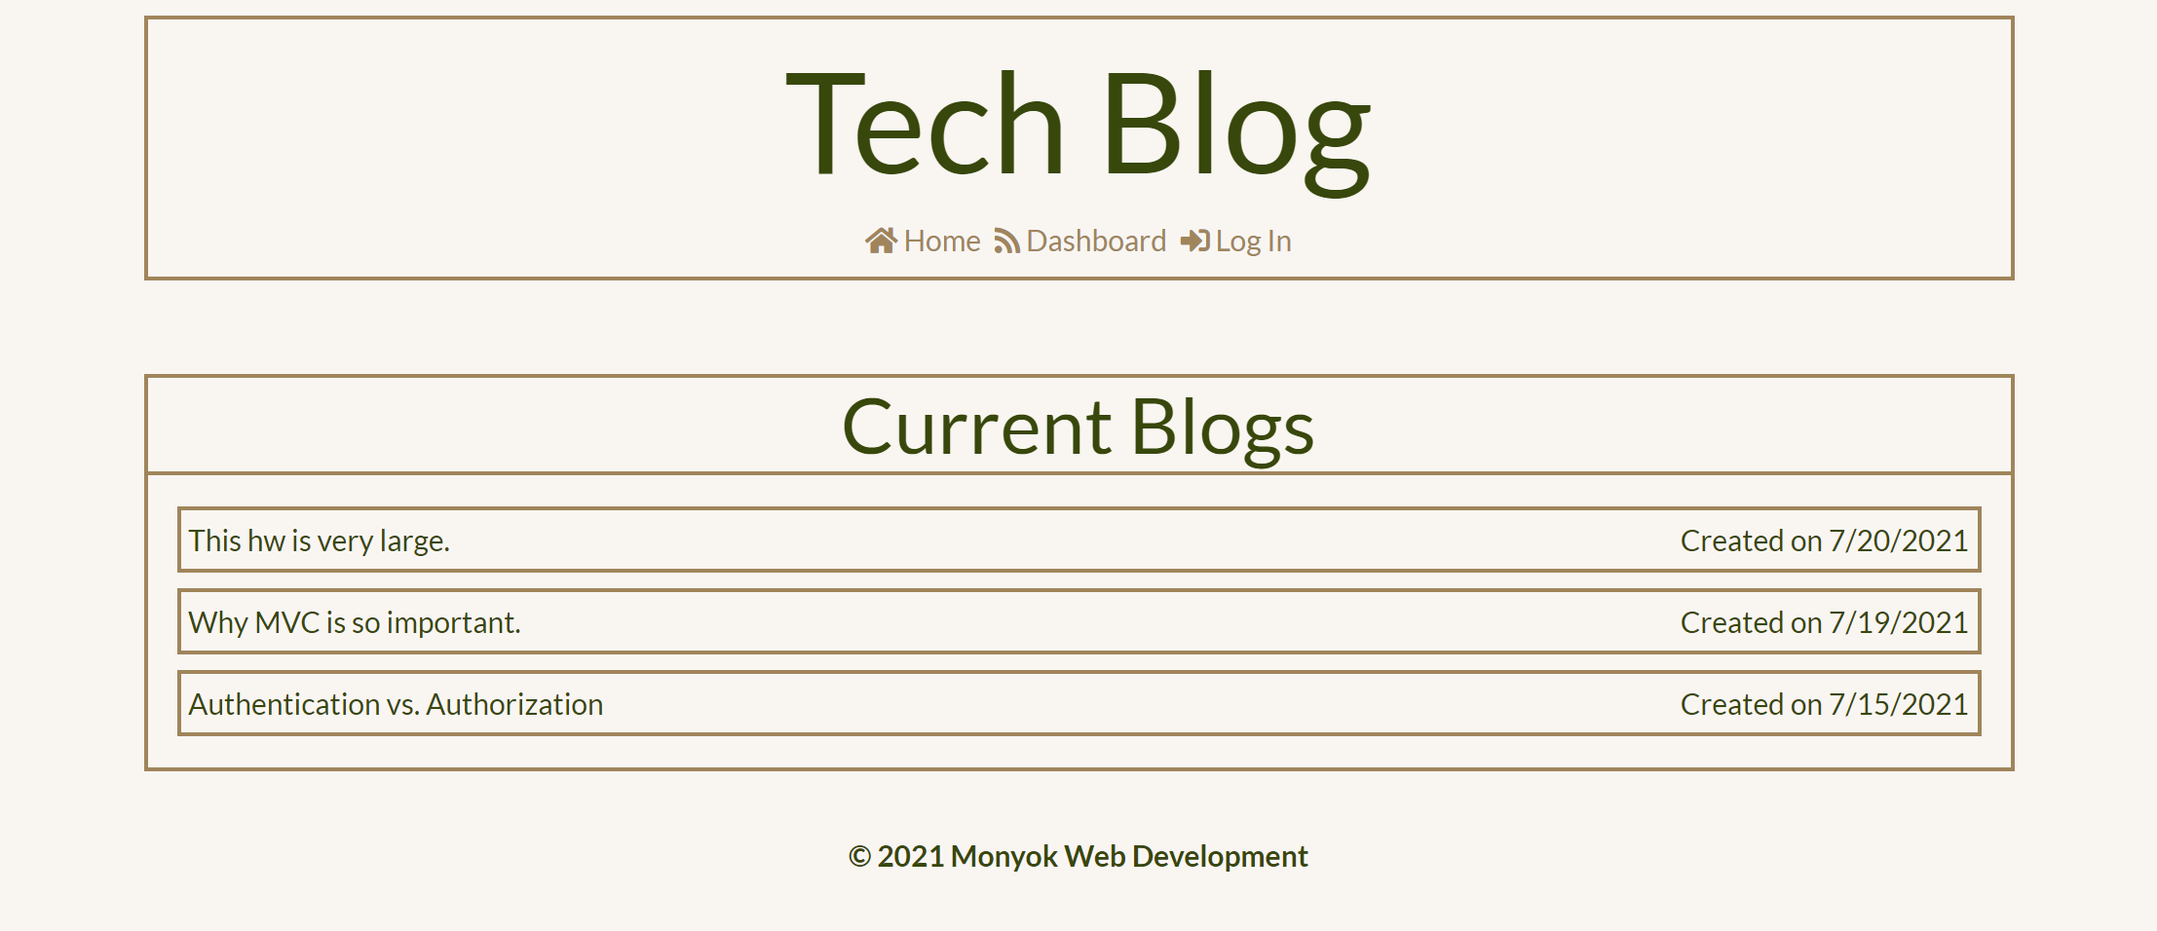
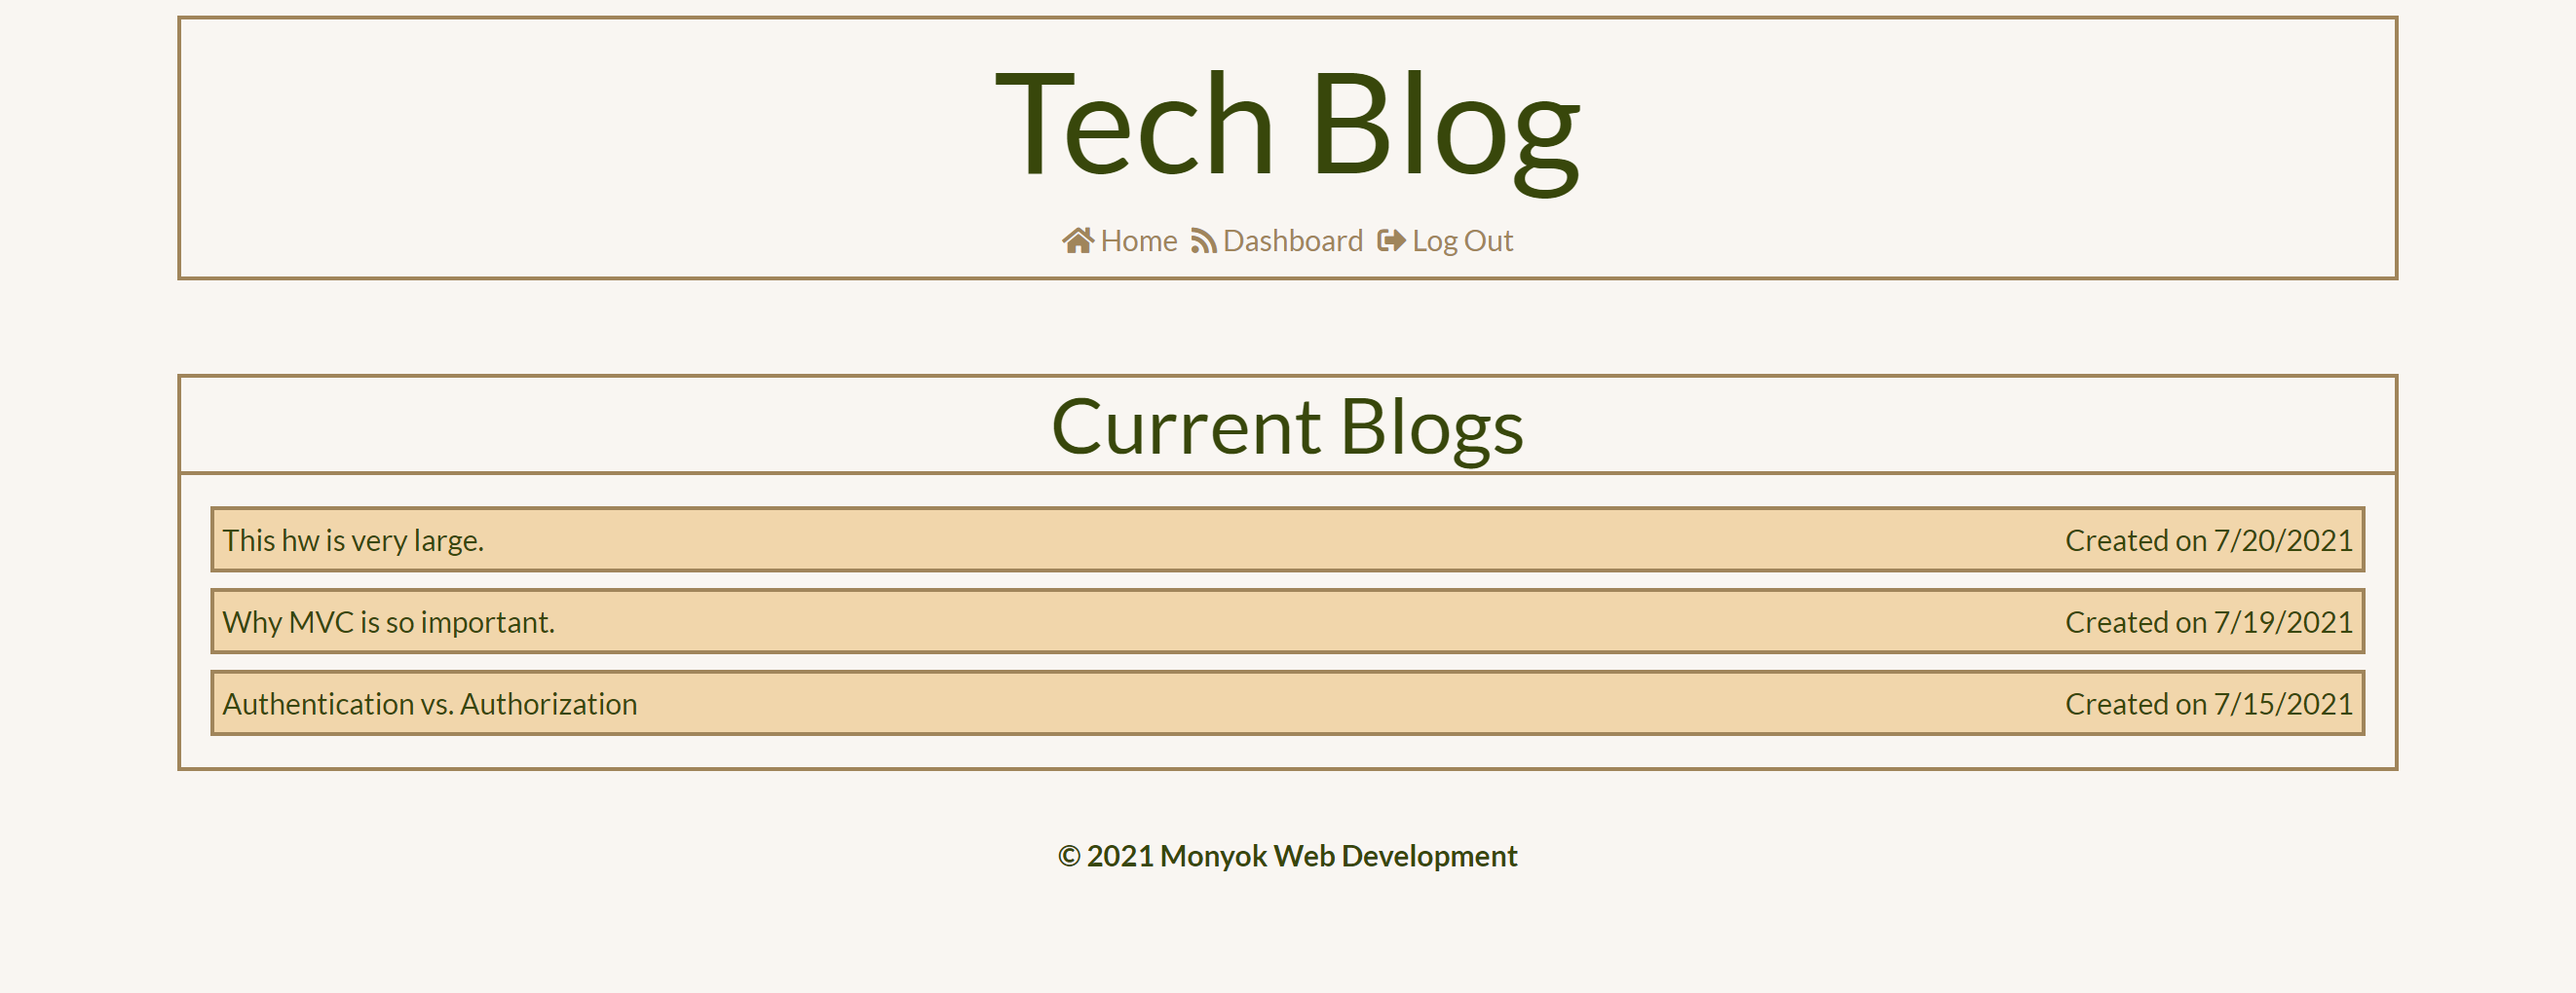
Updated the title background colors, as well as screenshots.

diff --git a/public/css/style.css b/public/css/style.css
@@ -10,6 +10,18 @@ body {
   color: var(--darkest) !important; 
 }
 
+a {
+  color: var(--darkest);
+}
+
+a:hover {
+  color: var(--top);
+}
+
+footer {
+  font-weight: bold;
+}
+
 .border {
   border: 2px solid var(--top) !important;
 }
@@ -24,14 +36,6 @@ body {
   border-color: var(--darkest) !important;
 }
 
-a {
-  color: var(--darkest);
-}
-
-a:hover {
-  color: var(--top);
-}
-
 .dashLink {
   color: var(--top);
 }
@@ -40,6 +44,6 @@ a:hover {
   color: var(--darkest) !important;
 }
 
-footer {
-  font-weight: bold;
+.title {
+  background-color: var(--bottom);
 }
